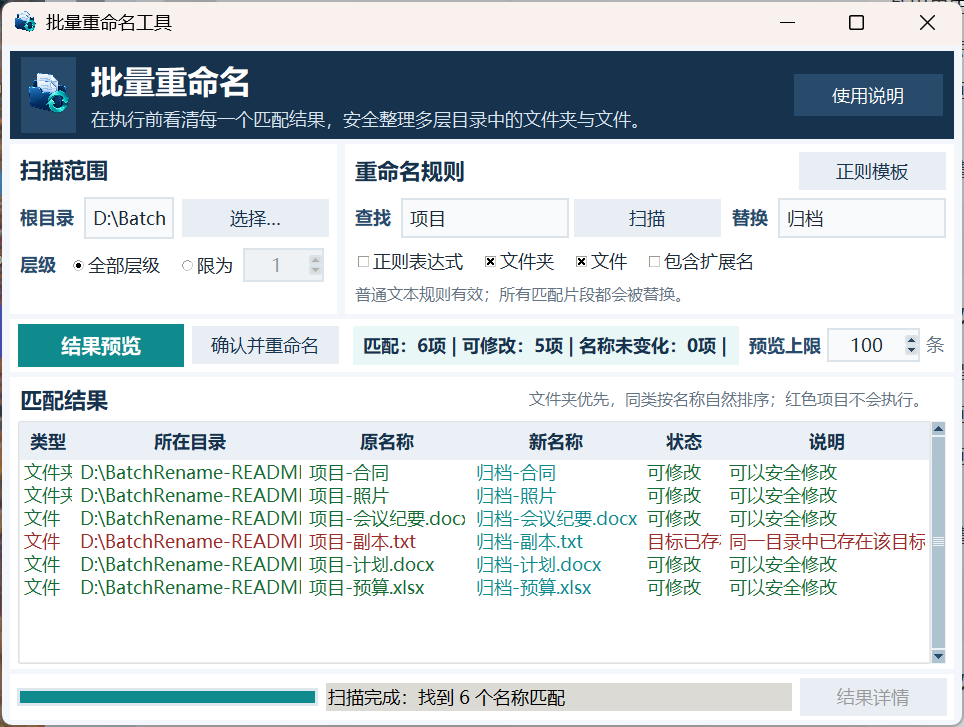
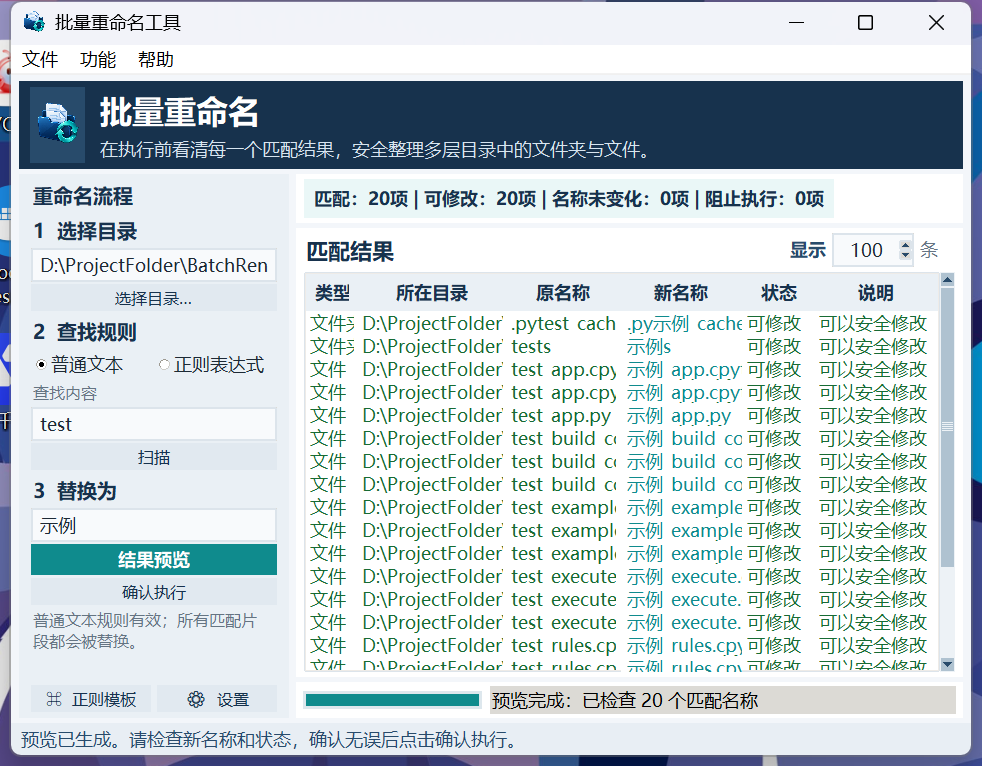
文档：介绍两阶段重命名工作台与菜单导航
README 以 1.1.0-beta.1 当前产品为中心，介绍左侧扫描到执行流程、扫描快照与结果预览的职责边界、不重复的顶部菜单、互斥浮动工具、开发中占位和关于信息，不再沿用旧的 35/65 卡片或三入口同义扫描描述。开发日志补充核心拆分、状态失效规则、多屏窗口策略与预发行取舍，并用 960×680、200% 缩放下的真实安全预览截图展示完整统计、结果列、底部工具和执行入口。

diff --git a/README.md b/README.md
@@ -6,17 +6,21 @@
 
 “批量重命名”是一款面向 Windows 的中文桌面工具，用来整理一个目录及其多层子目录中的文件夹和文件名称。它把搜索结果、替换后的名称和不能执行的原因放在同一张表里，让批量操作在真正写入磁盘前保持可见、可检查。
 
+当前发行标识为 **1.1.0-beta.1**。软件处于快速开发期，现有重命名流程已经可用；撤回管理和操作日志是紧接着开发的功能，当前只在菜单中保留“开发中”入口，不会被误表述为已经实现。
+
 程序只依赖 Python 标准库运行，可通过 PyInstaller 发布为单文件 EXE。普通文本规则适合日常整理，正则表达式则用于日期、序号、标签和名称片段等结构化场景。
 
 默认窗口以 960×680 打开，适合在常见桌面空间中与资源管理器并排使用；窗口放大或最大化后，新增空间会自动交给匹配结果列表。
 
 ## 界面预览
 
-![批量重命名主界面：扫描范围、重命名规则、完整统计与统一结果表](docs/images/batch-rename-main.png)
+![批量重命名主界面：左侧两阶段流程、完整统计与统一结果表](docs/images/batch-rename-main.png)
 
-上图使用“项目 → 归档”的普通文本规则生成真实预览。左侧扫描范围约占 35%，右侧规则区约占 65%；输入查找内容后可按 Enter、点击输入框后的“扫描”，或点击“结果预览”。工具栏同时显示匹配、可修改、名称未变化与阻止执行数量，右侧的 100 只限制表格显示条数。
+主窗口把一次批量重命名整理成左侧的明确顺序：选择目录、选择普通文本或正则规则、输入查找内容并扫描、填写替换内容、生成结果预览、确认执行。右侧只承担匹配统计、统一结果表和处理进度，窗口放大后新增空间会优先交给结果列表。
 
-结果表按类型、所在目录、原名称、新名称、状态和说明排列。青绿色新名称便于逐项核对；绿色表示可以安全修改，红色表示目标冲突或其他阻止原因。截图中的扫描仍处于预览阶段，只有继续点击“确认并重命名”并通过汇总确认后才会写入磁盘。
+顶部菜单只放置全局功能：退出、执行结果详情、使用说明和关于。撤回管理与操作日志以禁用的“开发中”项目提示下一阶段方向，不会与左侧流程命令重复。左下角的“正则模板”和“设置”使用主窗口内浮动卡片，二者互斥显示；再次点击、按 `Esc` 或点击结果区即可收起。
+
+结果表按类型、所在目录、原名称、新名称、状态和说明排列。青绿色新名称便于逐项核对；绿色表示可以安全修改，红色表示目标冲突或其他阻止原因。扫描和结果预览都不会写入磁盘，只有继续点击“确认执行”并通过汇总确认后才会真正改名。
 
 ## 适合处理的场景
 
@@ -38,19 +42,19 @@
 
 类型和状态列保持紧凑，名称与所在目录自动分享其余宽度。横向滚动条只在确实需要时出现；名称、路径或说明被列宽缩短时，把鼠标停在对应单元格即可查看完整内容。
 
-### 紧凑而可伸缩的界面
+### 两阶段工作流与自适应界面
 
-扫描范围与重命名规则按约 35% 和 65% 分配宽度，让目录设置保持紧凑，把更多空间留给查找、快捷扫描和替换内容。查找与替换输入框保持在同一行，匹配统计完整展开，结果预览默认最多列出 100 条。960×680 是完整可操作的起点，不是固定画布：手动放大或最大化窗口后，列表会自然增加可见行数，不会在设置区制造大片空白。
+“扫描”和“结果预览”承担不同职责。扫描只读取目录并列出名称符合查找条件的文件夹和文件，不要求先填写替换内容；结果预览使用这次匹配快照计算新名称、名称未变化、目标冲突和非法名称等状态，不会再次遍历目录。替换内容改变时只需重新预览，目录、层级、对象类型、查找规则或正则模式改变时才需要重新扫描。
 
-输入查找内容后，可以直接按 Enter 或点击输入框后的“扫描”；主操作区的“结果预览”提供相同入口。三种操作都会应用当前目录、层级、对象类型、扩展名和替换规则，不存在统计口径不同的简化扫描模式。
+查找框按 Enter 等同于“扫描”，替换框按 Enter 等同于“结果预览”。只有生成预览且存在“可修改”项目后，“确认执行”才会启用。预览默认显示前 100 条，完整统计和最终执行范围不受显示上限影响。
 
-输入框、数值框、选择控件、按钮、提示卡、滚动条和进度条使用同一套深蓝与青绿色视觉语言。焦点、悬停、禁用和执行状态都有清晰差异，仍保持 Windows 桌面工具熟悉的操作方式。
+960×680 是完整可操作的默认与最小尺寸，不是固定画布。左侧流程保持紧凑，右侧结果区随窗口放大或最大化自然增加可见行数。输入框、数值框、选择控件、按钮、提示卡、滚动条和进度条使用统一的深蓝与青绿色视觉语言，焦点、悬停、禁用和执行状态都有清晰差异。
 
 ### 普通文本与正则表达式
 
 普通模式按原样查找文本，并替换名称里的每一处匹配。替换内容可以留空，表示删除匹配文本。
 
-正则模式支持 Python 正则语法。不了解正则也可以直接打开“正则模板”：程序内置 6 类 15 条经过真实规则验证的常用模板，先展示用途和处理前后效果，再通过“一键应用此规则”填写查找、替换及必要选项。应用模板不会扫描目录，也不会直接修改文件。
+正则模式支持 Python 正则语法。不了解正则也可以点击左下角“正则模板”：程序内置 6 类 15 条经过真实规则验证的常用模板，先展示用途和处理前后效果，再通过“一键应用此规则”填写查找、替换及必要选项。应用模板不会扫描目录，也不会直接修改文件。
 
 | 用途 | 查找表达式 | 替换内容 | 示例结果 |
 | --- | --- | --- | --- |
@@ -63,7 +67,7 @@
 | 交换名称片段 | `(.+)_([A-Z]+)` | `\2_\1` | `project_FINAL.txt` → `FINAL_project.txt` |
 | 统一 JPEG 扩展名 | `(?i)\.jpe?g$` | `.jpg` | `照片.JPEG` → `照片.jpg` |
 
-模板按日期时间、编号整理、标签清理、文本清理、片段调整和扩展名分类。涉及扩展名的模板会自动开启“包含扩展名”，并在模板详情中提醒核对；其他模板默认继续保护文件扩展名。
+模板按日期时间、编号整理、标签清理、文本清理、片段调整和扩展名分类。涉及扩展名的模板会自动开启“允许修改扩展名”，并在模板详情中提醒核对；其他模板默认继续保护文件扩展名。
 
 ### 层级与对象范围
 
@@ -75,7 +79,7 @@
 
 ### 扩展名保护
 
-文件扩展名默认不参与替换。例如查找 `jpg` 时，`照片.jpg` 会作为匹配结果列出，但状态会说明扩展名受到保护，因此不会执行动作。只有明确勾选“包含扩展名”后，规则才处理完整文件名。
+文件扩展名默认不参与替换。例如查找 `jpg` 时，`照片.jpg` 会作为匹配结果列出，但状态会说明扩展名受到保护，因此不会执行动作。只有在“设置”中明确勾选“允许修改扩展名”后，规则才处理完整文件名。
 
 ### 安全执行
 
@@ -94,13 +98,12 @@
 
 运行 `BatchRename.exe` 后：
 
-1. 选择根目录。
-2. 保持“扫描到最深处”，或设置最大层级。
-3. 输入查找内容和替换内容；需要结构化处理时，也可以打开“正则模板”选择常用规则并一键应用。
-4. 选择普通文本或正则表达式，以及文件夹、文件和扩展名范围。
-5. 在查找框按 Enter、点击旁边的“扫描”，或点击“结果预览”，然后按类型、所在目录、原名称、新名称、状态和说明检查结果。
-6. 确认存在可修改项目后，点击“确认并重命名”。
-7. 阅读最终汇总，确认后等待进度完成。
+1. 在左侧选择根目录；根目录本身不会参与改名。
+2. 选择普通文本或正则表达式，输入查找内容，点击“扫描”。此时即使尚未填写替换内容，也会列出所有名称匹配项。
+3. 如需限制层级、只处理文件夹或文件、允许修改扩展名，点击左下角“设置”；不熟悉正则时可在“正则模板”中选择并一键应用。
+4. 填写“替换为”，点击“结果预览”，检查类型、所在目录、原名称、新名称、状态和说明。
+5. 确认存在可修改项目后点击“确认执行”，阅读最终汇总并完成二次确认。
+6. 等待进度结束；本次处理记录可从顶部“功能 → 结果详情”查看。
 
 “预览上限”默认是 100 条，只控制界面显示的前几条结果，不改变完整匹配统计和最终执行范围。
 

diff --git a/CHANGELOG.md b/CHANGELOG.md
@@ -2,6 +2,30 @@
 
 本日志记录“批量重命名”从需求到可发布程序的设计过程、问题根因、技术取舍和验证结论。README 面向使用者介绍当前产品；开发过程统一保留在这里。
 
+## 2026-09-01：1.1.0-beta.1 两阶段工作台与正式导航
+
+### 为什么拆分扫描和预览
+
+旧界面把查找、替换和预览压缩成一次动作，使用者仅想查询名称时仍会被要求理解替换规则，替换内容变化也会重新读取完整目录。核心现在先生成只包含路径、类型和查找规则的匹配快照，再从快照计算目标名称与安全状态。扫描不依赖替换内容；预览阶段不再调用目录遍历。旧的组合扫描接口保留为两步操作的兼容封装，因此核心调用方和执行安全策略没有分叉。
+
+界面状态也随之明确为“等待扫描、已有匹配、已有预览、正在执行”。目录、层级、对象类型、查找内容和正则模式会使匹配快照失效；替换内容及扩展名设置只使预览失效；显示上限只重绘表格。扫描后的行保留原名称并提示等待预览，预览后才显示青绿色新名称和可修改、名称未变化或阻止执行状态。
+
+### 左侧流程与不重复的顶部菜单
+
+原来的范围卡片、规则卡片和横向操作条在 960×680 下形成多处视觉起点，也让“扫描”和“结果预览”的职责显得相同。新工作台将选择目录、规则模式、查找内容、扫描、替换内容、结果预览和确认执行固定为左侧纵向顺序；右侧只保留统计、统一结果表和进度。结果表初始列宽重新压缩，长路径和说明继续通过悬浮提示完整显示，窗口放大后额外空间由结果区吸收。
+
+顶部原生菜单只保留文件、功能和帮助三类全局入口。结果详情随执行记录启用；撤回管理和操作日志以禁用的“开发中”项目占位，为紧接着的 1.1.0 开发提供稳定入口，但本次没有伪造尚不存在的功能。使用说明和关于不再以主界面按钮重复出现。
+
+### 浮动工具和多显示器窗口
+
+正则模板与设置收拢到左下角入口，通过主窗口内的浮动卡片显示。两个面板互斥，重复点击、Esc 或点击结果区会关闭当前面板。模板仍按六类十五条真实规则组织，并在卡片内展示表达式、替换内容和处理前后示例；设置卡集中层级、文件夹/文件范围与扩展名保护，同时解释每项设置会使扫描还是预览失效。
+
+使用说明、关于和执行结果详情采用统一子窗口管理。定位算法以父窗口为中心并限制到父窗口所在显示器的工作区；Windows 使用显示器工作区 API，异常或其他平台回退到 Tk 虚拟桌面。相同窗口只保留一个实例，重复打开会提升并恢复焦点，关闭后注销并把焦点交还主窗口，解决多屏环境下弹窗散落和没有焦点的问题。
+
+### 预发行信息
+
+版本更新为 `1.1.0-beta.1`。关于页面以产品能力、开发路线、安全提示和联系方式组织内容，明确当前已实现两阶段扫描预览、统一结果、安全拦截、正则模板、多层目录及处理进度；撤回管理和操作日志仍在开发中。页面同时说明软件处于快速开发期，重要目录需要备份，规则、预览和最终执行由使用者自行确认。作者邮箱 `lo.c@live.cn` 以可选择的只读文本显示，不主动打开外部邮件程序。
+
 ## 2026-08-27：规则预览路径与结果确认布局
 
 ### 设置区比例与预览容量
